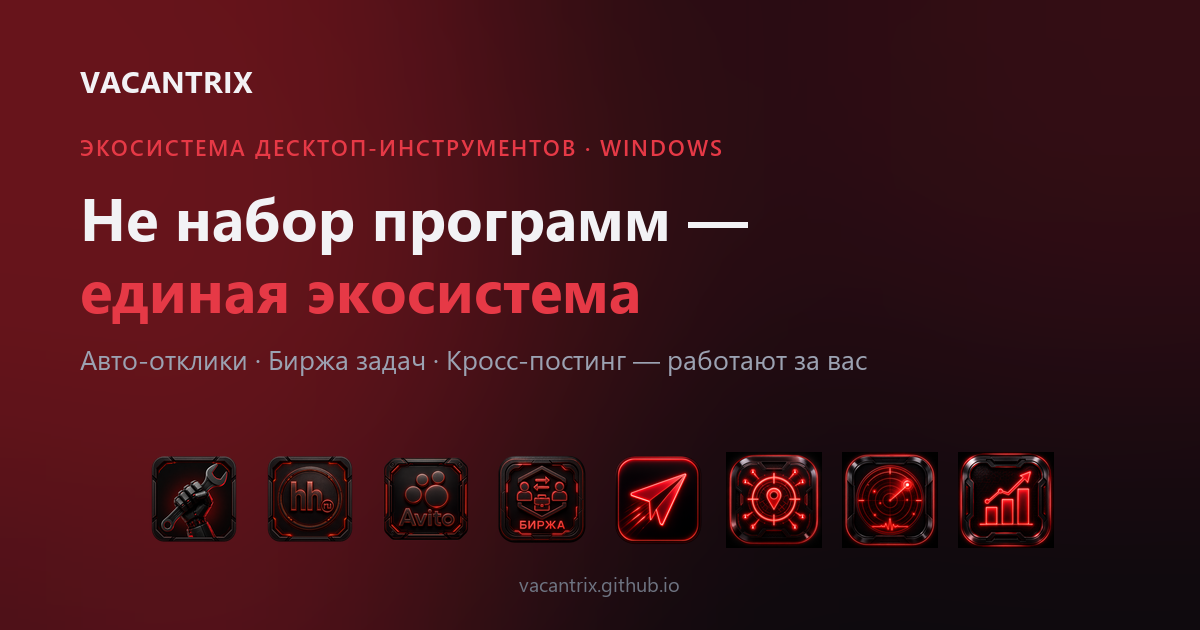
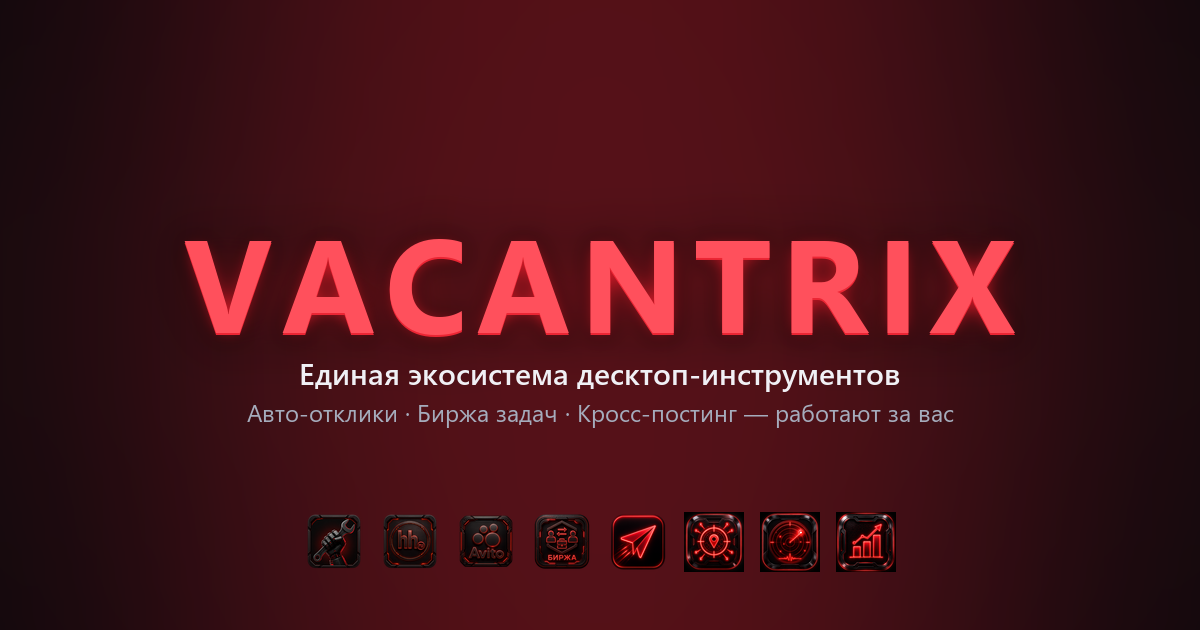
feat(web): OG-обложка — красный неон-логотип VACANTRIX по центру
По просьбе: на превью при репосте теперь крупный логотип VACANTRIX красными
буквами с неоновым свечением (вместо мелкого вверху), ниже — подзаголовок,
тэглайн и ряд иконок продуктов. og:image версия поднята v=…b, чтобы соцсети
пересканировали превью.

diff --git a/index.html b/index.html
@@ -13,13 +13,13 @@
   <meta property="og:url" content="https://vacantrix.github.io/vacantrix-web/">
   <meta property="og:title" content="Vacantrix — единая экосистема инструментов">
   <meta property="og:description" content="Не набор программ — единая экосистема: авто-отклики на вакансии (hh.ru, Авито), биржа задач, кросс-постинг. Работают за вас.">
-  <meta property="og:image" content="https://vacantrix.github.io/vacantrix-web/img/og-cover.png?v=20260624">
+  <meta property="og:image" content="https://vacantrix.github.io/vacantrix-web/img/og-cover.png?v=20260624b">
   <meta property="og:image:width" content="1200">
   <meta property="og:image:height" content="630">
   <meta name="twitter:card" content="summary_large_image">
   <meta name="twitter:title" content="Vacantrix — единая экосистема инструментов">
   <meta name="twitter:description" content="Авто-отклики, биржа задач, кросс-постинг — десктоп-инструменты, которые работают за вас.">
-  <meta name="twitter:image" content="https://vacantrix.github.io/vacantrix-web/img/og-cover.png?v=20260624">
+  <meta name="twitter:image" content="https://vacantrix.github.io/vacantrix-web/img/og-cover.png?v=20260624b">
   <link rel="icon" type="image/png" href="favicon.png?v=20260624">
   <link rel="apple-touch-icon" href="apple-touch-icon.png?v=20260624">
   <link rel="manifest" href="manifest.webmanifest">